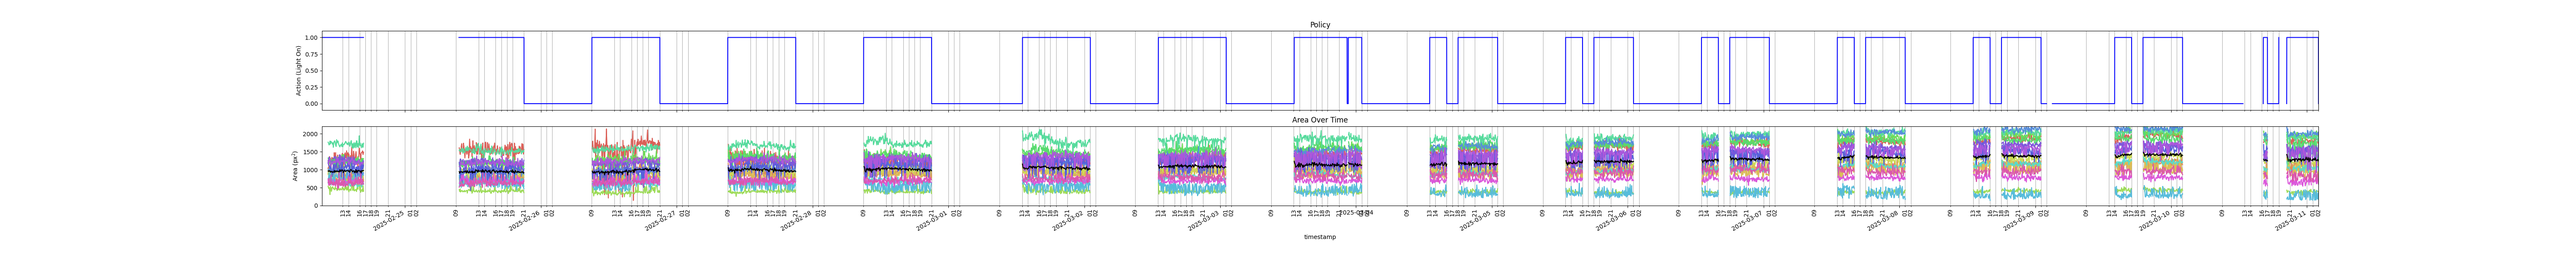
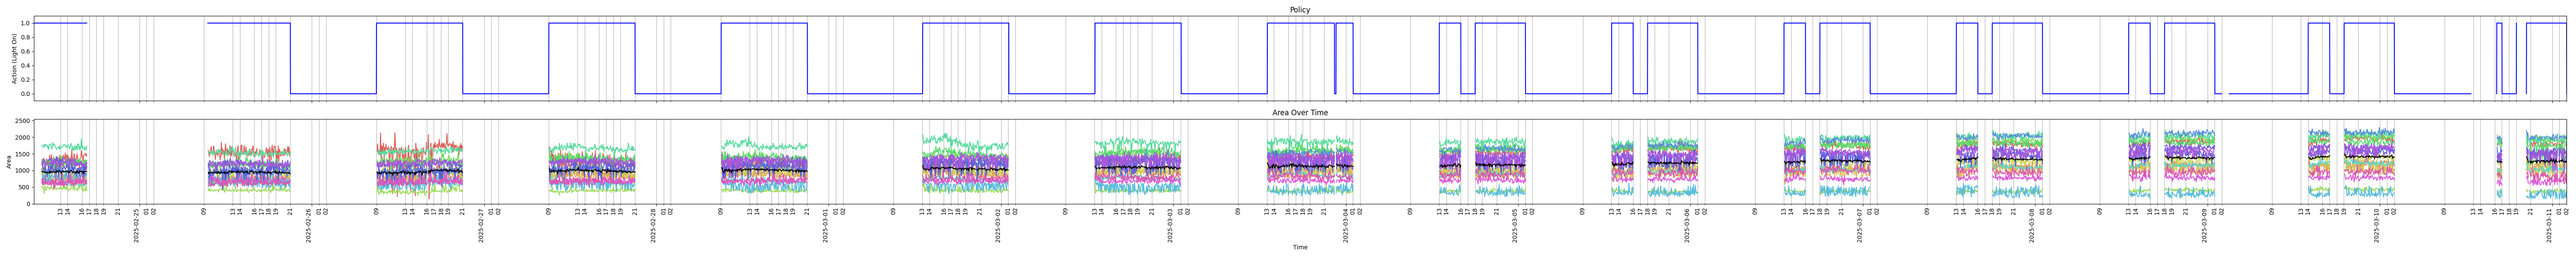
Set upper ylim with .999 quantile

diff --git a/experiments/online/E4/plot_plant_growth_curve.py b/experiments/online/E4/plot_plant_growth_curve.py
@@ -177,7 +177,7 @@ for column in df.columns:
     plot_segments(df, "timestamp", column, ax, color, label=column, gap_indices=gap_indices)
 
 area_columns = [column for column in df.columns if column not in ["timestamp", "time_diff"]]
-ax.set_ylim(0, df[area_columns].quantile(0.99).max())
+ax.set_ylim(0, df[area_columns].quantile(0.999).max())
 ax.set_ylabel("Area (px$^2$)")
 ax.set_title("Area Over Time")
 plt.ylabel("Area")
